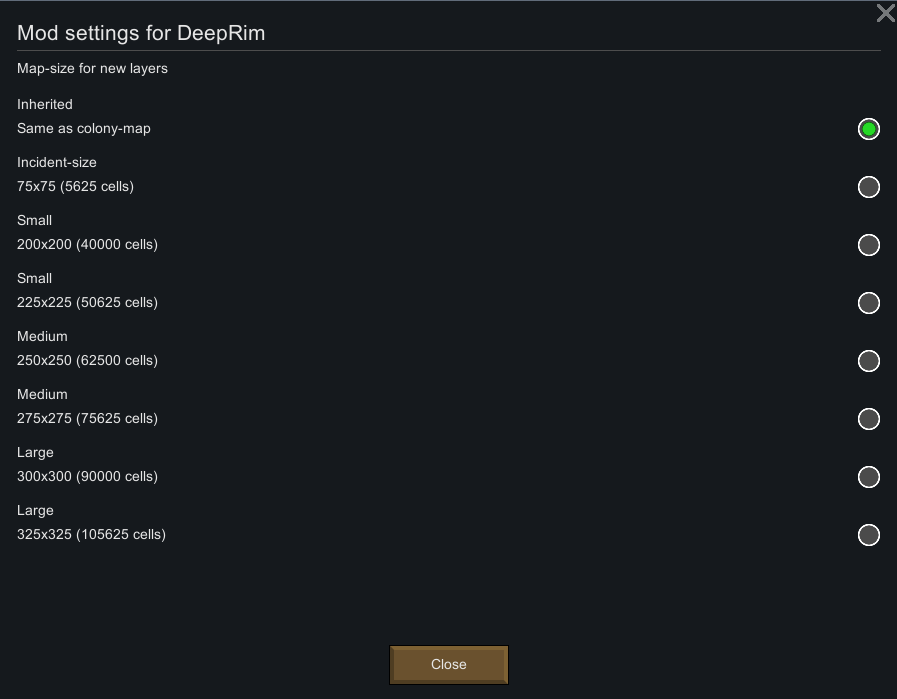
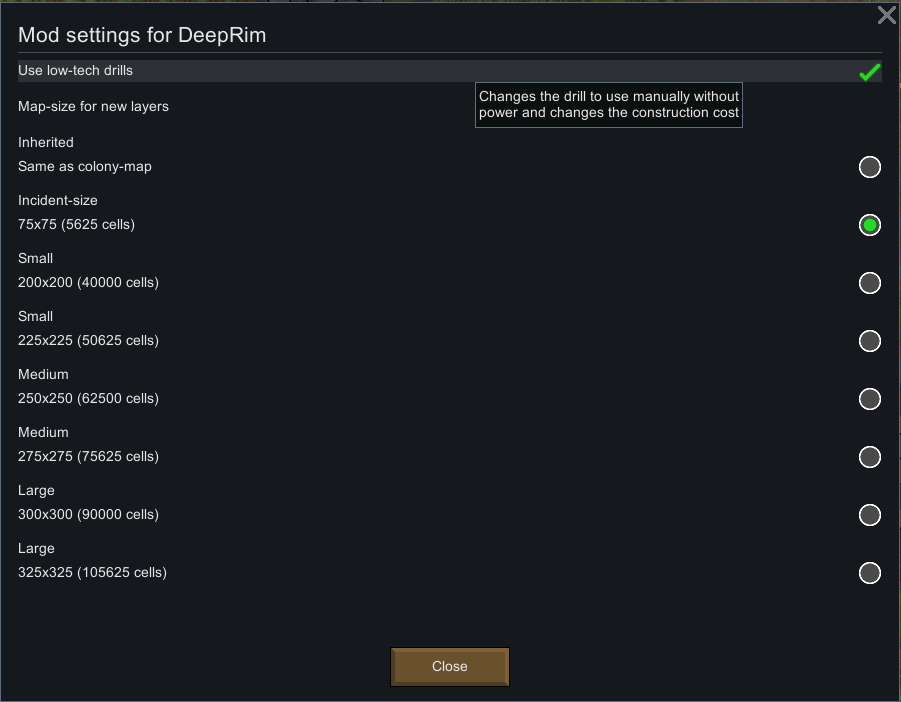
Added wood as valid material for the drill

Changed region(s): [[0.0, 0.0, 1.0, 1.0], [0.5307, 0.1202, 0.8428, 0.1803], [0.5619, 0.9313, 0.5931, 0.9614]]

diff --git a/README.md b/README.md
@@ -7,8 +7,9 @@ https://ludeon.com/forums/index.php?topic=39262.0
 
 - Added smoke to the drill when drilling
 - Added Send up-button to the underground drill
-- Added russian translation, thanks WolF8RocK
+- Added Russian translation, thanks WolF8RocK
 - Added mod-settings for changing the size of the generated map-layers
+- Added mod-setting for low-tech mode where the drill is operated manually and don't require power
 
 ![Image](https://i.imgur.com/pufA0kM.png)
 
